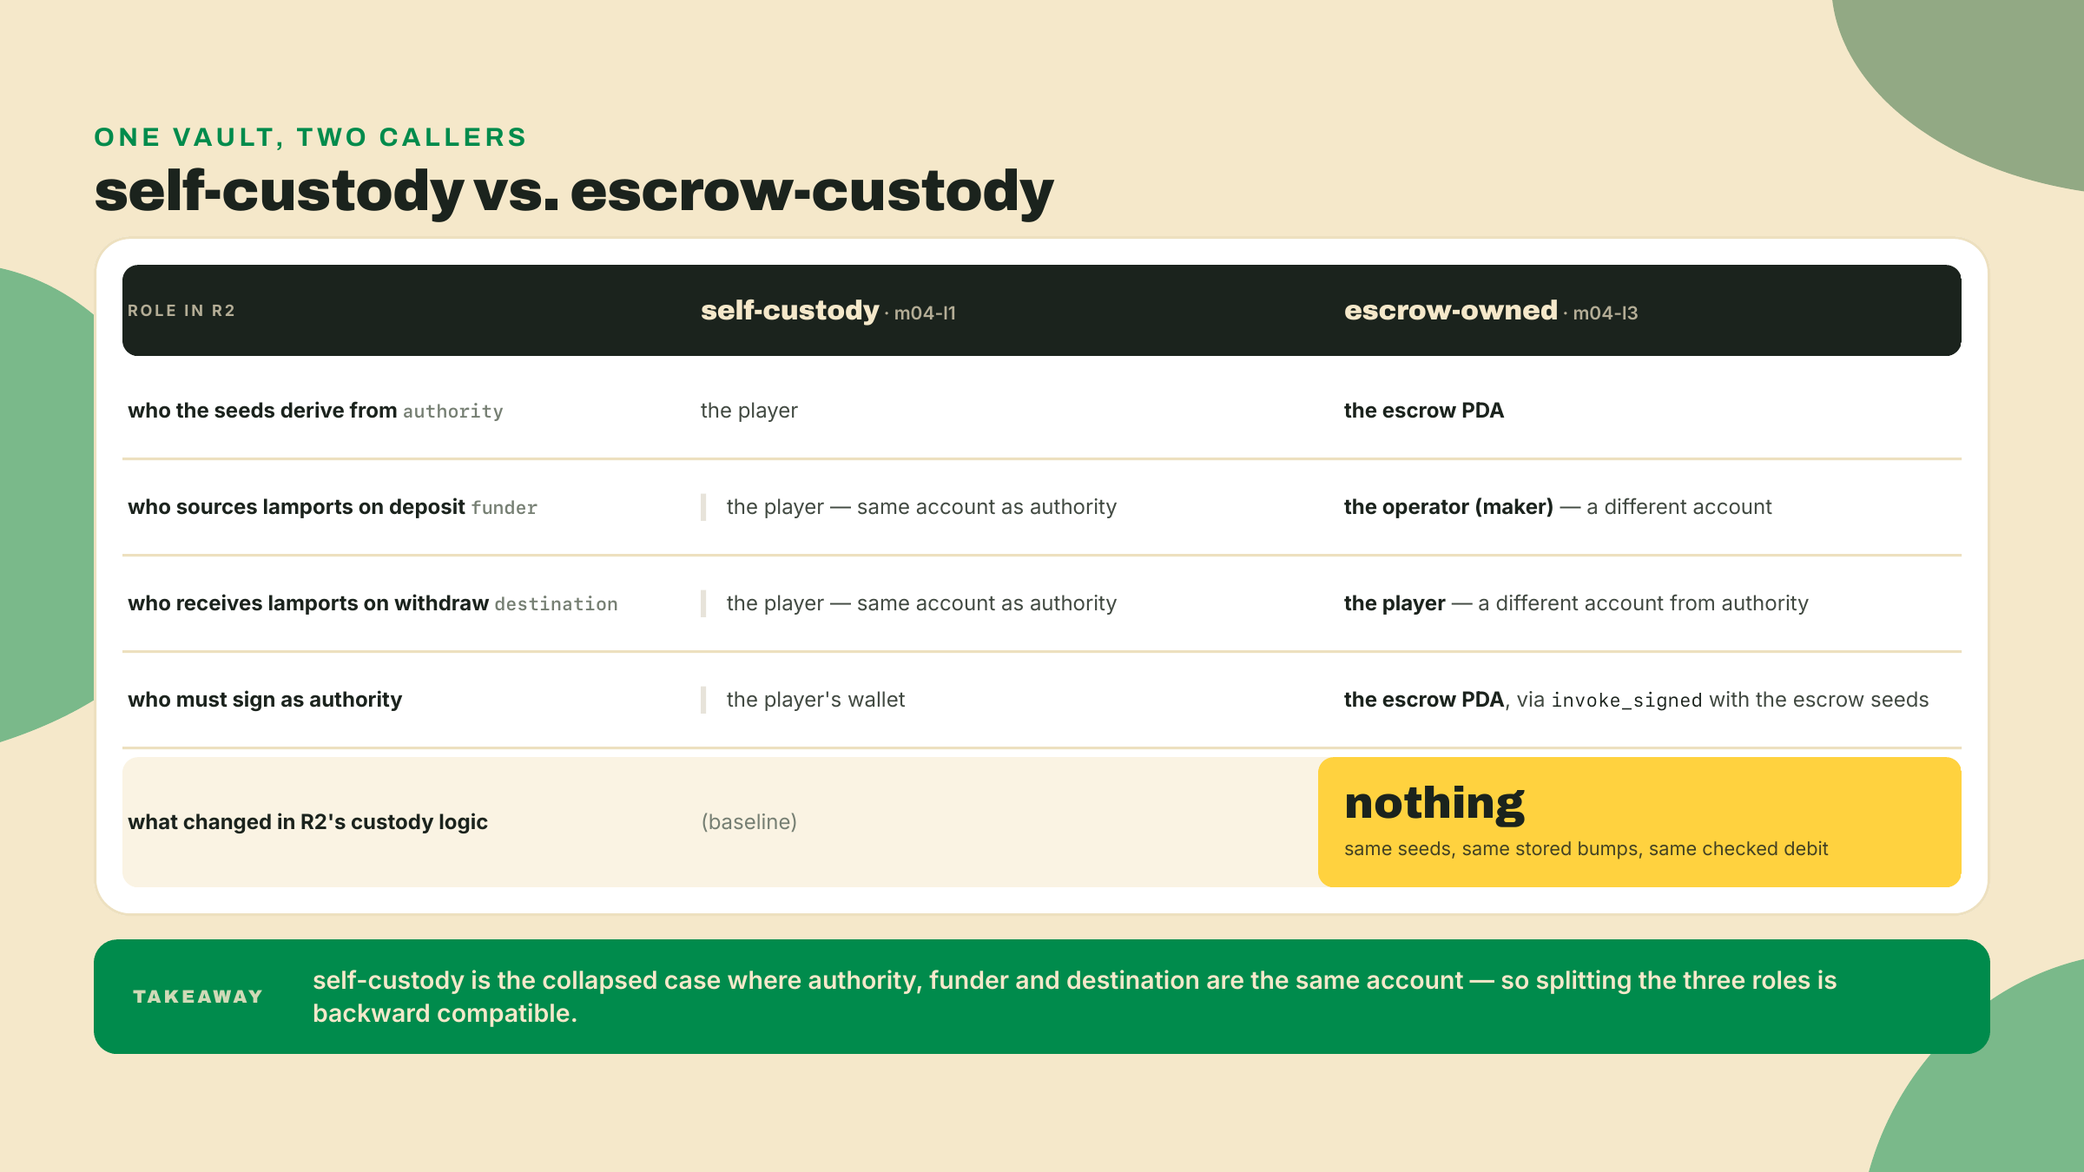
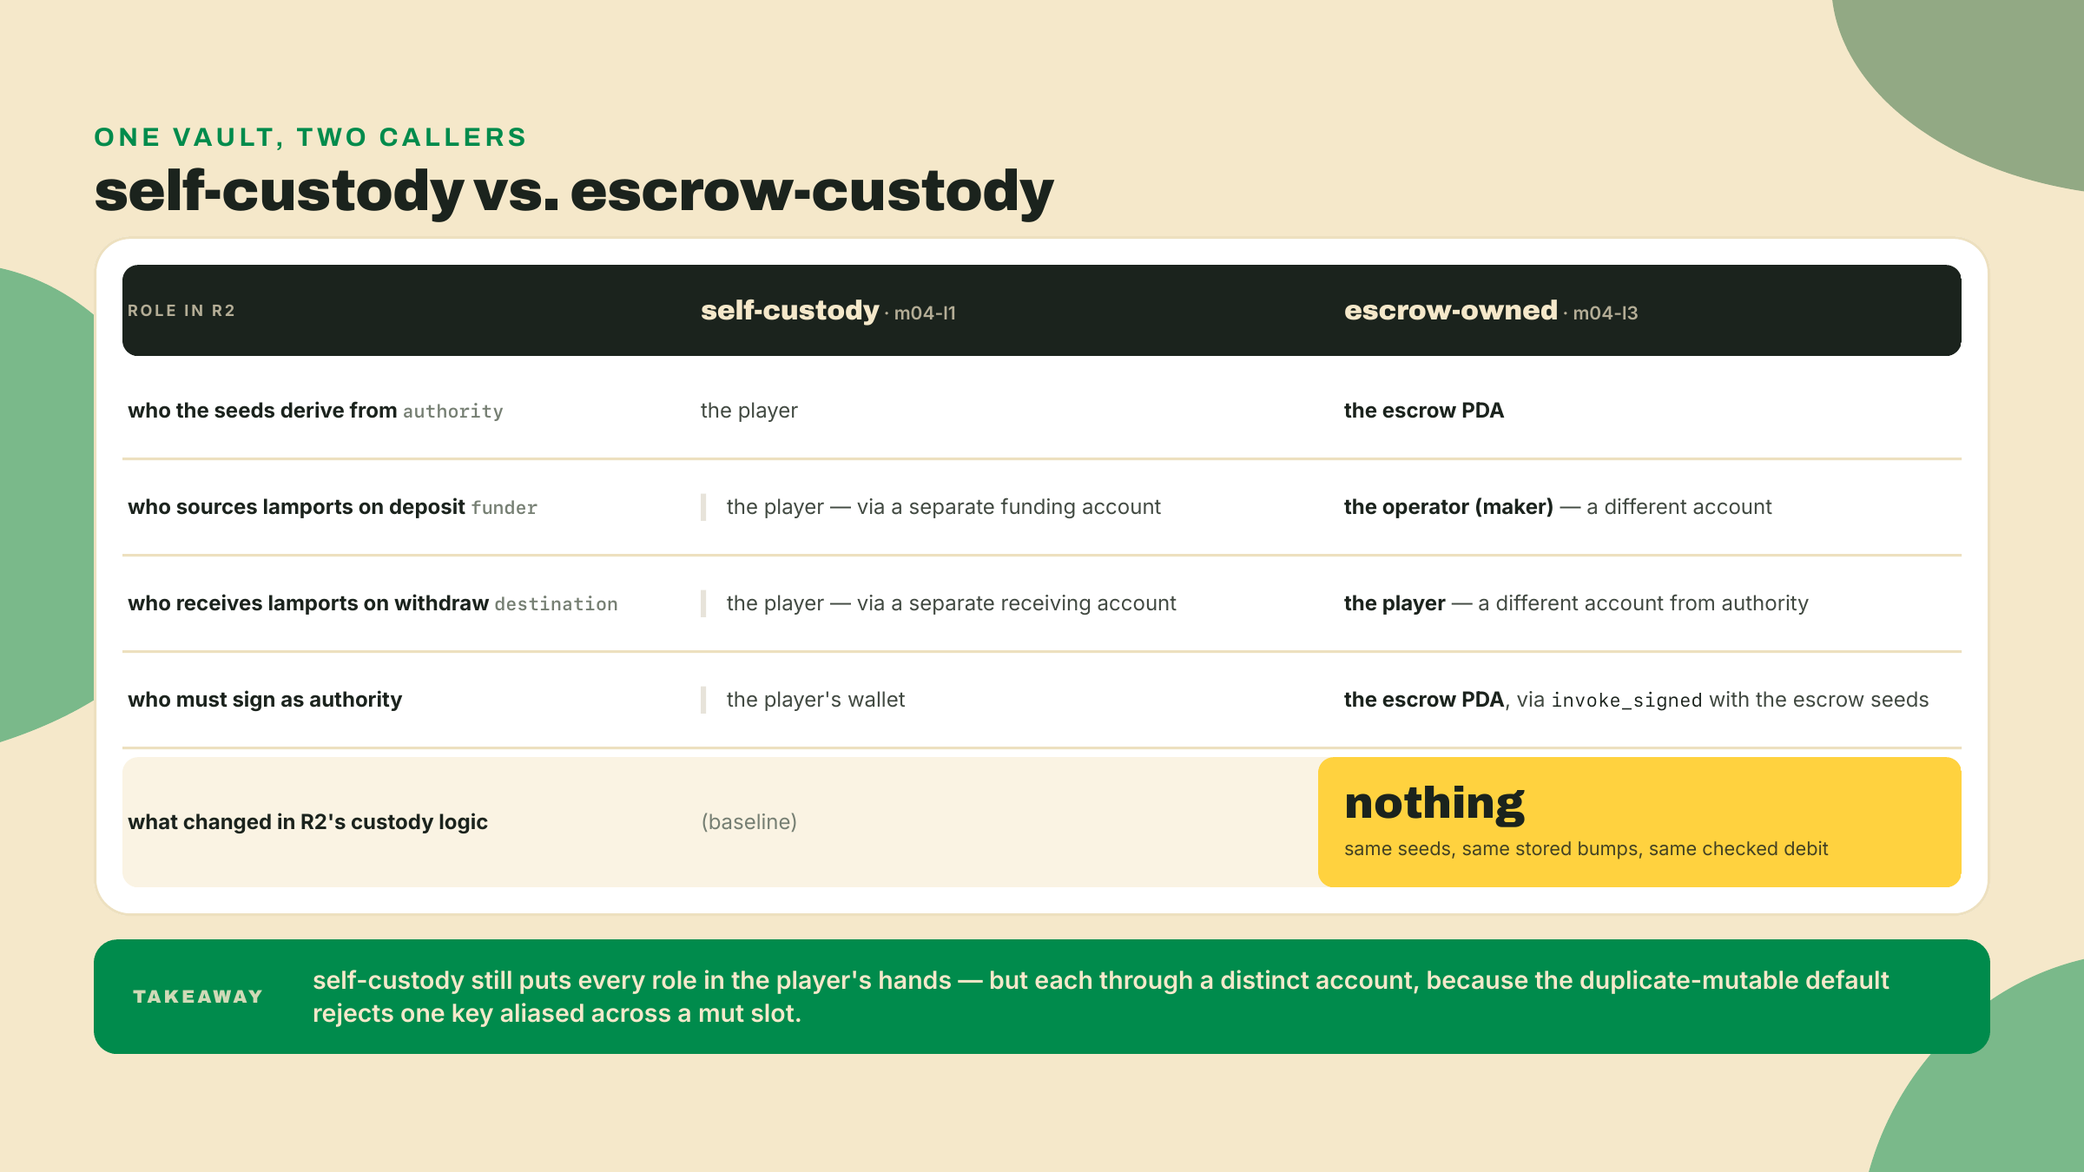
fix(anchor-v2): host the real R4 under Mollusk, correct the duplicate-guard rule, true up the twins output

Changed region(s): [[0.1562, 0.8089, 0.9062, 0.8711], [0.4062, 0.4978, 0.5625, 0.5289], [0.4062, 0.4044, 0.5312, 0.4356]]

diff --git a/courses/mastering-anchor-v2/visual-src/m04-l3/v06-comparison.html b/courses/mastering-anchor-v2/visual-src/m04-l3/v06-comparison.html
@@ -12,7 +12,7 @@
 <body>
 <!-- comparison: "One vault, two callers: self-custody versus escrow-custody"
      purpose: show that splitting owner from payer and payee is the only change composition needs in R2
-     data: columns: role | m04-l1 self-custody vault | m04-l3 escrow-owned vault rows: - who the seeds derive from (authority) | the player | the escrow PDA - who sources lamports on deposit (funder) | the player, same account as authority | the operator (maker), a different account - who receives lamports on withdraw (destination) | the player, same account as authority | the player, a different account from authority - who must sign as authority | the player's wallet | the escrow PDA, via invoke_signed with the escrow seeds - what changed in R2's custody logic | (baseline) | nothing: same seeds, same stored bumps, same checked debit takeaway: the self-custody case is the collapsed case where all three roles are the same account, so the split is backward compatible
+     data: columns: role | m04-l1 self-custody vault | m04-l3 escrow-owned vault rows: - who the seeds derive from (authority) | the player | the escrow PDA - who sources lamports on deposit (funder) | the player, through a separate funding account (one key in two slots trips the duplicate-mutable default) | the operator (maker), a different account - who receives lamports on withdraw (destination) | the player, through a separate receiving account | the player, a different account from authority - who must sign as authority | the player's wallet | the escrow PDA, via invoke_signed with the escrow seeds - what changed in R2's custody logic | (baseline) | nothing: same seeds, same stored bumps, same checked debit takeaway: self-custody still means the player fills every role - but each role through a distinct account, because the duplicate-mutable default rejects one key aliased across a mut slot
      prompt: A two-column comparison table with the five role rows from the data. Left column labeled "self-custody (m04-l1)", right column "escrow-owned (m04-l3)". Shade the final row, "what changed in R2's custody logic", and print its right cell as an emphatic "nothing". Put the takeaway as a full-width band under both columns.
      BUILD .viz as on-brand HTML per skills/content-gen/references/visual-rendering.md.
      Header: <div class="stbr-eyebrow">..</div> + <h2 class="viz-title">..</h2>.
@@ -82,12 +82,12 @@
     </div>
     <div class="r row">
       <div class="c1"><div class="role">who sources lamports on deposit <em>funder</em></div></div>
-      <div class="c2"><div class="v same">the player — same account as authority</div></div>
+      <div class="c2"><div class="v same">the player — via a separate funding account</div></div>
       <div class="c3"><div class="v"><b>the operator (maker)</b> — a different account</div></div>
     </div>
     <div class="r row">
       <div class="c1"><div class="role">who receives lamports on withdraw <em>destination</em></div></div>
-      <div class="c2"><div class="v same">the player — same account as authority</div></div>
+      <div class="c2"><div class="v same">the player — via a separate receiving account</div></div>
       <div class="c3"><div class="v"><b>the player</b> — a different account from authority</div></div>
     </div>
     <div class="r row">
@@ -108,7 +108,7 @@
 
   <div class="band">
     <div class="w">takeaway</div>
-    <div class="t">self-custody is the collapsed case where authority, funder and destination are the same account — so splitting the three roles is backward compatible.</div>
+    <div class="t">self-custody still puts every role in the player's hands — but each through a distinct account, because the duplicate-mutable default rejects one key aliased across a mut slot.</div>
   </div>
 </div>
 </body></html>

diff --git a/courses/mastering-anchor-v2/lessons/m06-l1/swap-fixture/swap_fixture.rs b/courses/mastering-anchor-v2/lessons/m06-l1/swap-fixture/swap_fixture.rs
@@ -11,7 +11,11 @@
 // same `spl_token` state types the on-chain program reads, plus the pool at its
 // real PDA. Mollusk runs one instruction against exactly the accounts you hand
 // it — there is no validator to create them for you — so a fixture's whole job
-// is to lay out that account set the way the pool's init would have.
+// is to lay out that account set the way the pool's init would have. The one
+// thing an account row cannot do is make a program EXECUTABLE: the swap CPIs
+// into the token program, so the test registers it in Mollusk's program cache
+// with `mollusk_svm_programs_token::token::add_program(&mut mollusk)` right
+// after `Mollusk::new`, and this fixture supplies the matching account row.
 //
 // If your R4's context diverged from the worked example, adapt the field names
 // here; the shape of the construction does not change.
@@ -33,6 +37,10 @@ const FUNDED: u64 = 1_000_000_000;
 const RESERVE_DEPTH: u64 = 1_000_000;
 /// What the trader walks up with.
 const TRADER_ARCADE: u64 = 1_000_000;
+/// Each mint's recorded supply is exactly the sum of the balances the fixture
+/// deals out, so the books balance the way a real mint's would.
+const ARCADE_SUPPLY: u64 = RESERVE_DEPTH + TRADER_ARCADE;
+const TICKET_SUPPLY: u64 = RESERVE_DEPTH;
 const DECIMALS: u8 = 6;
 
 pub struct Keys {
@@ -71,13 +79,17 @@ pub fn build_swap_accounts(k: &Keys) -> Vec<(Pubkey, Account)> {
     vec![
         (k.trader, system_account(FUNDED)),
         (k.pool, pool_account(k)),
-        (k.mint_arcade, mint_account()),
-        (k.mint_ticket, mint_account()),
+        (k.mint_arcade, mint_account(ARCADE_SUPPLY)),
+        (k.mint_ticket, mint_account(TICKET_SUPPLY)),
         (k.reserve_arcade, token_account(&k.mint_arcade, &k.pool, RESERVE_DEPTH)),
         (k.reserve_ticket, token_account(&k.mint_ticket, &k.pool, RESERVE_DEPTH)),
         (k.trader_arcade, token_account(&k.mint_arcade, &k.trader, TRADER_ARCADE)),
         (k.trader_ticket, token_account(&k.mint_ticket, &k.trader, 0)),
-        (spl_token::ID, Account::default()),
+        // The token program's account row, shaped the way the cache entry
+        // expects it (executable, loader-owned). The pair travels together:
+        // add_program puts the program in the cache, this row puts it in the
+        // instruction's account list.
+        mollusk_svm_programs_token::token::keyed_account(),
     ]
 }
 
@@ -119,11 +131,11 @@ pub fn build_init_accounts(k: &Keys) -> Vec<(Pubkey, Account)> {
     vec![
         (k.trader, system_account(FUNDED)),
         (k.pool, Account::default()),
-        (k.mint_arcade, mint_account()),
-        (k.mint_ticket, mint_account()),
+        (k.mint_arcade, mint_account(ARCADE_SUPPLY)),
+        (k.mint_ticket, mint_account(TICKET_SUPPLY)),
         (k.reserve_arcade, Account::default()),
         (k.reserve_ticket, Account::default()),
-        (spl_token::ID, Account::default()),
+        mollusk_svm_programs_token::token::keyed_account(),
         (system_program_id(), Account::default()),
     ]
 }
@@ -175,11 +187,11 @@ fn system_program_id() -> Pubkey {
 /// A live SPL mint: the real 82-byte layout, packed by the same `spl_token`
 /// state type the token program itself uses. No mint authority — the fixture
 /// never mints after setup, it just declares the balances directly.
-fn mint_account() -> Account {
+fn mint_account(supply: u64) -> Account {
     let mut data = vec![0u8; spl_token::state::Mint::LEN];
     spl_token::state::Mint {
         mint_authority: COption::None,
-        supply: RESERVE_DEPTH * 4,
+        supply,
         decimals: DECIMALS,
         is_initialized: true,
         freeze_authority: COption::None,

diff --git a/courses/mastering-anchor-v2/lessons/m04-l3/intro.md b/courses/mastering-anchor-v2/lessons/m04-l3/intro.md
@@ -70,7 +70,7 @@ The shift is more than cosmetic. `has_one` was locked to a field whose name matc
 
 ### The duplicate-mutable default: distinct is fine, aliased is not
 
-Here is a default that trips people the first time and then never again. V2 rejects *duplicate mutable accounts*. Pass the same account under two mutable names in one instruction and validation fails before your handler runs, with `ConstraintDuplicateMutableAccount`.
+Here is a default that trips people the first time and then never again. V2 rejects *duplicate mutable accounts*. Hand the same account in under two names in one instruction, with even one of those slots marked `mut`, and validation fails before your handler runs, with `ConstraintDuplicateMutableAccount`.
 
 Read that carefully, because the common misread is expensive. It does *not* mean "two mutable accounts are banned." Your `redeem` takes the escrow (mutable, it gets closed) and the vault (mutable, its lamports move), both mutable, and V2 is perfectly happy, because they are two different accounts. What V2 refuses is *aliasing*: the same account handed in twice under two names, where one mutable write silently clobbers the other. That is a real bug class, and it is now a compile-and-load-time error instead of a 2am incident.
 
@@ -83,7 +83,7 @@ When you genuinely mean to pass one account twice as mutable (a batch instructio
 | Your `redeem` takes... | V2 verdict | What you write |
 |---|---|---|
 | escrow (mut) + vault (mut), different accounts | accepted | nothing extra, this is normal composition |
-| the same vault twice, both mut | rejected | `ConstraintDuplicateMutableAccount` at load |
+| the same vault twice, either slot mut | rejected | `ConstraintDuplicateMutableAccount` at load |
 | the same vault twice, you meant it | accepted | `#[account(mut, unsafe(dup))]` on both, and own the aliasing |
 | plain `dup` without `unsafe` | compile error | the compiler tells you to write `unsafe(dup)` |
 
@@ -173,11 +173,11 @@ Creating a vault for an address is harmless: it costs the funder rent and gives 
 
 Then point the two `Transfer` CPIs at the new accounts: `deposit`'s `from` becomes `funder`, and `withdraw`'s `to` becomes `destination`. Nothing else changes, and that is the point. Three extra accounts across three structs, no new custody logic, and R3 gets to build on the same code instead of copying it.
 
-![Self-custody collapses authority, funder, and destination into the player, while the escrow-owned vault splits them across escrow PDA, operator, and player with R2's custody logic unchanged.](assets/v06-comparison.png)
+![Self-custody keeps every role in the player's hands through distinct accounts, since the duplicate-mutable default rejects one key aliased across slots, while the escrow-owned vault splits the roles across escrow PDA, operator, and player with R2's custody logic unchanged.](assets/v06-comparison.png)
 
 Note the one demotion: `Deposit`'s `authority` stops being a `Signer`. Topping up someone's vault never needed their permission, only their address to derive the seeds, and the escrow PDA cannot sign a deposit it is merely the owner of. `Withdraw`'s `authority` stays a `Signer`, which is exactly the account the escrow PDA will satisfy through `invoke_signed` in Step 4.
 
-Checkpoint: `anchor build` in the vault workspace compiles, and m04-l1's withdraw test still passes once you pass the player's key into `authority`, `funder`, and `destination`. Passing one key into three slots is exactly the aliasing the duplicate-mutable default rejects, so it is worth knowing why this is legal: only `funder` and `destination` are `mut`, and on `Withdraw` only `destination` is, while `authority` is a read-only signer. The guard counts `mut` slots, not accounts, so self-custody stays the collapsed case rather than a violation. If the build fails instead, you moved a seed or a bump; put it back.
+Checkpoint: `anchor build` in the vault workspace compiles — if it fails instead, you moved a seed or a bump; put it back. Then re-run m04-l1's withdraw test, and run it the tempting way first: pass the player's key into `authority`, `funder`, and `destination`, the way the old self-custody test collapsed everything into one wallet. It fails on the very first instruction with `Custom(2040)` — `ConstraintDuplicateMutableAccount`. One key in two slots is aliasing, and the guard rejects an aliased account the moment *any* of its slots is `mut`; a read-only `authority` does not excuse it, because on `InitVault` the mut `funder` aliases it and on `Withdraw` the mut `destination` does. That 2040 is the duplicate-mutable default from the overview doing its job on your own program, one lesson early. The fix is the same role split you just performed on the structs, applied to the test: give `funder` and `destination` their own keypairs, the way the escrow will hold distinct parties on the floor. Distinct keys, green run.
 
 ### Step 2: the escrow record
 

diff --git a/courses/mastering-anchor-v2/lessons/m06-l1/intro.md b/courses/mastering-anchor-v2/lessons/m06-l1/intro.md
@@ -204,6 +204,11 @@ solana-address = ">=2.6.1, <2.7"
 # crates, so your solana dev-deps must be the 4.x line: a 2.x solana-sdk will not
 # type-check against Mollusk's Pubkey/Account/Instruction types.
 mollusk-svm = "0.15.1"
+# Mollusk's minified SVM loads no program you don't register, and the trade CPIs
+# into SPL Token — this companion crate (same 0.15 line, same publish batch)
+# ships the real token-program ELF plus the two helpers the fixture and test
+# use: token::add_program() and token::keyed_account().
+mollusk-svm-programs-token = "0.15.1"
 solana-sdk = "4"
 # The two rows below hold Mollusk's own graph on the wincode 0.5 line. Without them the
 # resolve succeeds and the BUILD dies, in solana-message and then in solana-transaction.
@@ -236,7 +241,11 @@ use token_ticket_swap::instruction::SwapArcadeForTickets as SwapArgs;
 fn swap_fixture() -> (Mollusk, Instruction, Vec<(Pubkey, Account)>) {
     let program_id = token_ticket_swap::ID;
     // Mollusk loads the compiled .so by name, from wherever SBF_OUT_DIR points.
-    let mollusk = Mollusk::new(&program_id, "token_ticket_swap");
+    let mut mollusk = Mollusk::new(&program_id, "token_ticket_swap");
+    // A minified SVM runs only the programs you register, and the trade CPIs
+    // into SPL Token. Put the real token program in the cache; the fixture
+    // supplies the matching account row.
+    mollusk_svm_programs_token::token::add_program(&mut mollusk);
 
     // `build_swap_accounts` builds the trader, the pool PDA, both mints, and the four
     // token accounts (two reserves, two trader-side), funds them, and returns them as

diff --git a/courses/mastering-anchor-v2/lessons/m01-l1/intro.md b/courses/mastering-anchor-v2/lessons/m01-l1/intro.md
@@ -139,10 +139,11 @@ The move you are about to use is `solana confirm -v <SIGNATURE>`, which prints a
    solana confirm -v "$V1_TWIN_SIG" --url devnet | grep -i "compute units"
    ```
 
-   Mine printed exactly this, and the reference signature replays the same reading for you:
+   Mine printed two lines — the case-insensitive grep catches the CLI's own summary as well as the runtime's log line — and the reference signature replays the same reading for you:
 
    ```text
-   Program 8bhX52w9mGGaAFJwsoWLpv3nrZsXzc3ZfE2P622uGt3z consumed 1714 of 200000 compute units
+   Compute Units Consumed: 1714
+     Program 8bhX52w9mGGaAFJwsoWLpv3nrZsXzc3ZfE2P622uGt3z consumed 1714 of 200000 compute units
    ```
 
    Whenever this pair gets re-landed — by the maintainers after a devnet reset, or by you later in the course under your own wallet — the exact number will differ; the shape will not. Write down the `consumed X` for the v1 twin — it is the same reading the opener had you take.
@@ -157,10 +158,11 @@ The move you are about to use is `solana confirm -v <SIGNATURE>`, which prints a
    solana confirm -v "$V2_TWIN_SIG" --url devnet | grep -i "compute units"
    ```
 
-   For the record, the reference reading:
+   For the record, the reference reading, in the same two-line shape:
 
    ```text
-   Program 2fLbW1PG2CeyAgR5krLF9okkqCXRmqy1o3srBh4E26WT consumed 200 of 200000 compute units
+   Compute Units Consumed: 200
+     Program 2fLbW1PG2CeyAgR5krLF9okkqCXRmqy1o3srBh4E26WT consumed 200 of 200000 compute units
    ```
 
    Write down the `consumed X` for the v2 twin.

diff --git a/courses/mastering-anchor-v2/lessons/m06-l2/intro.md b/courses/mastering-anchor-v2/lessons/m06-l2/intro.md
@@ -162,9 +162,10 @@ wincode = { version = "0.5", features = ["derive"] }
 solana-address = ">=2.6.1, <2.7"
 
 [dev-dependencies]
-# Unchanged from m06-l1, and listed here so the whole crate is on one page: Mollusk plus
-# the two rows that hold its graph on wincode 0.5.
+# Unchanged from m06-l1, and listed here so the whole crate is on one page: Mollusk,
+# its token-program companion, plus the two rows that hold its graph on wincode 0.5.
 mollusk-svm = "0.15.1"
+mollusk-svm-programs-token = "0.15.1"
 solana-sdk = "4"
 solana-short-vec = ">=3.2.2, <3.3"
 solana-signature = ">=3.4.1, <3.5"
@@ -220,7 +221,9 @@ mod swap_fixture;   // the same module cu_baseline.rs used last lesson
 // The same swap fixture: program, accounts, one swap ix.
 fn fixture() -> (Mollusk, Instruction, Vec<(Pubkey, Account)>) {
     let program_id = token_ticket_swap::ID;
-    let mollusk = Mollusk::new(&program_id, "token_ticket_swap");
+    let mut mollusk = Mollusk::new(&program_id, "token_ticket_swap");
+    // The trade's CPI target, registered exactly as in m06-l1.
+    mollusk_svm_programs_token::token::add_program(&mut mollusk);
     let keys = swap_fixture::keys(&program_id);
     let accounts = swap_fixture::build_swap_accounts(&keys);
     let ix = swap_fixture::build_swap_ix(&program_id, &keys);

diff --git a/courses/mastering-anchor-v2/README.md b/courses/mastering-anchor-v2/README.md
@@ -41,6 +41,7 @@ lessons carry; treat a stale date as an unverified pin.
 | `solana-verify` | `0.5.1` | crates.io | 2026-08-22 | m08-l2 |
 | Docker | `27.x` or newer | daemon must be running or the build fails fast | 2026-08-22 | m08-l2 |
 | `mollusk-svm` | `0.15.1` (published 2026-08-29) | crates.io | 2026-09-01 | m06-l1, m06-l2, m09-l3 |
+| `mollusk-svm-programs-token` | `0.15.1` | crates.io | 2026-09-02 | m06-l1, m06-l2 |
 | `solana-sdk` (Mollusk's dev-dep) | `4` | crates.io | 2026-09-01 | m06-l1, m06-l2, m09-l3, m09-l1 |
 | `solana-short-vec` / `solana-signature` | `>=3.2.2, <3.3` / `>=3.4.1, <3.5` | crates.io — dev-deps, **only in the Mollusk crates** | 2026-09-01 | m06-l1, m06-l2, m09-l3 |
 | `solana-address` (**every arcade-workspace member**) | `>=2.6.1, <2.7` | crates.io | 2026-09-01 | m02-l1, m03-l1, m04-l3, m05-l1, m06-l1, m06-l2, m09-l3 |

diff --git a/courses/mastering-anchor-v2/lessons/m05-l2/intro.md b/courses/mastering-anchor-v2/lessons/m05-l2/intro.md
@@ -136,8 +136,12 @@ Here is the full swap handler. The token-in direction is worked; the token-out d
 
 ```rust
 use anchor_lang::prelude::*;
-use anchor_spl::token_interface::{
-    self, Mint, TokenAccount, TokenInterface, TransferChecked,
+use anchor_spl::{
+    // `token` rides along as a MODULE, not for a type: the `token::mint = ...`
+    // constraints below expand to code that names the module by path, so it has
+    // to be in scope or the derive fails to resolve — m05-l1's import rule.
+    token,
+    token_interface::{self, Mint, TokenAccount, TokenInterface, TransferChecked},
 };
 
 // Placeholder. Keep the id `anchor new token-ticket-swap` generated for you.
